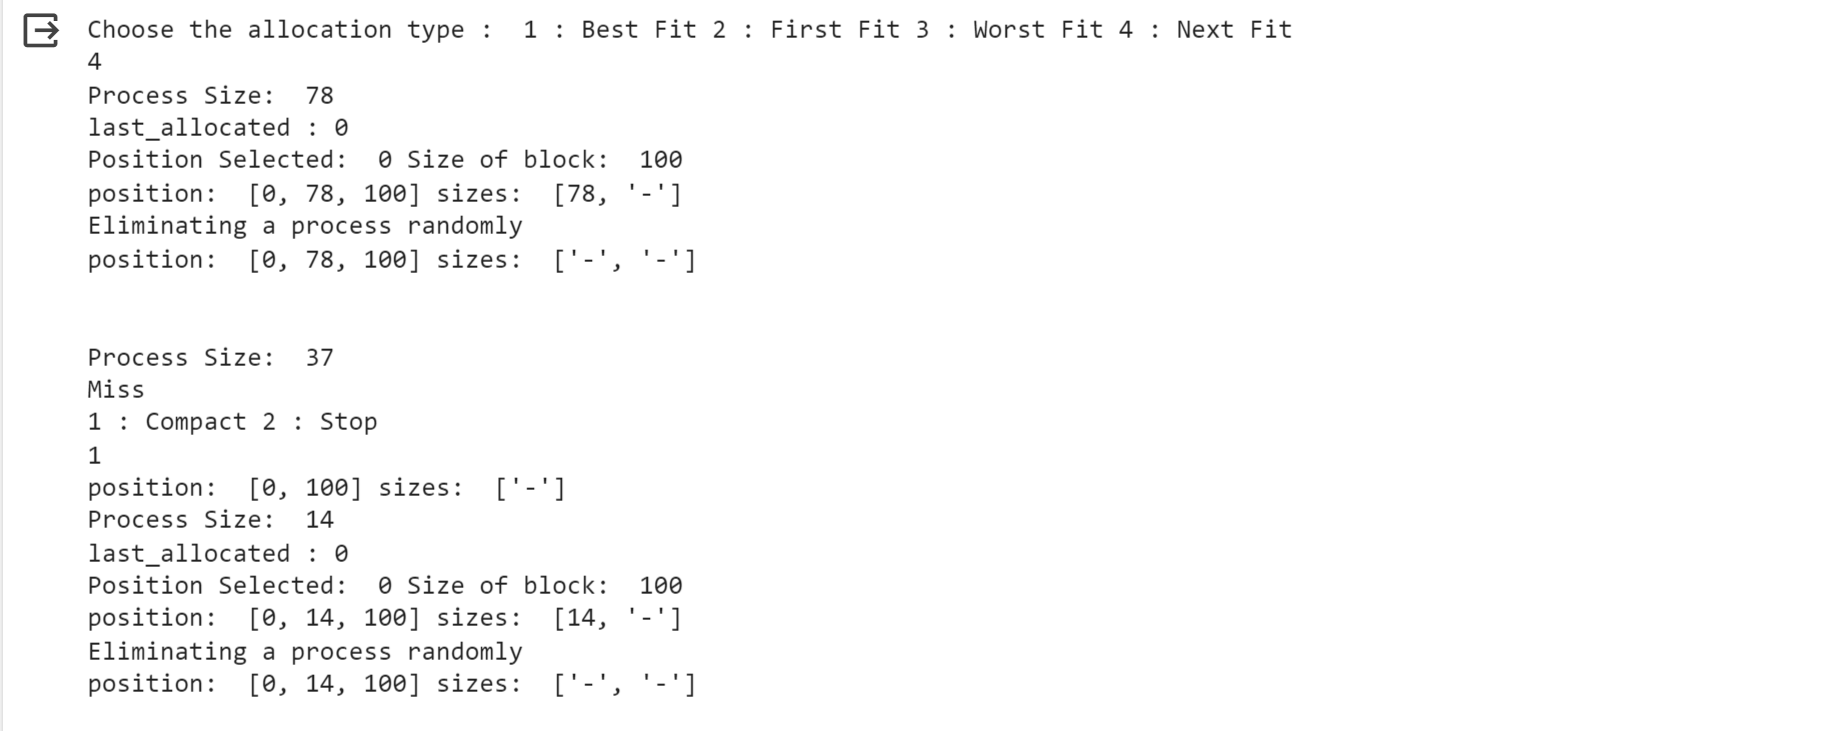
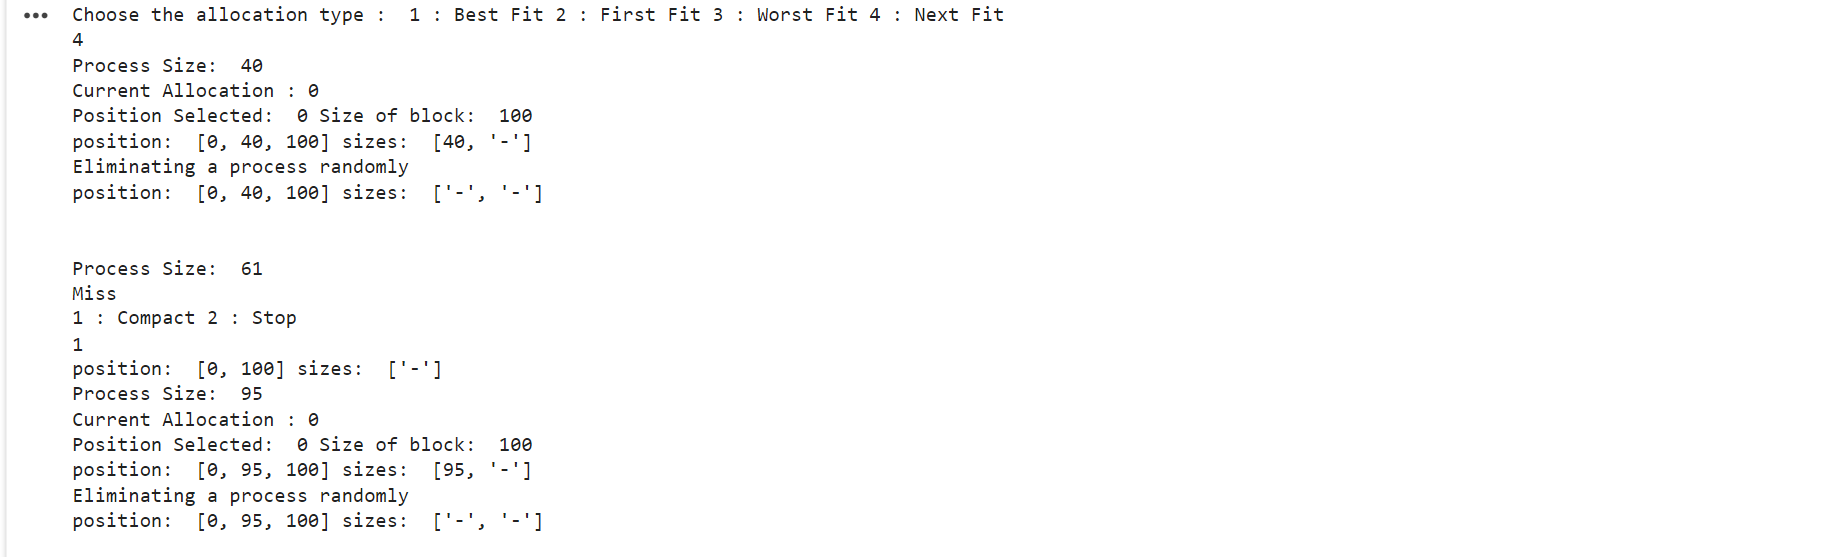
Commit message

diff --git a/allocator.py b/allocator.py
@@ -29,7 +29,7 @@ def next_fit(process):
         if sizes[i]=='-' and (positions[i+1]-positions[i])>=process:
             last_allocated=i
             last_allocated=last_allocated % len(positions)
-            print('last_allocated :',last_allocated)
+            print('Current Allocation :',last_allocated)
             return i,positions[i]       
     return -1,-1
 
@@ -147,6 +147,7 @@ while True:
           continue
         else:
           break
+          print('\n')
 
       insert(process,i,position)
       print('position: ',positions,'sizes: ',sizes)
@@ -154,86 +155,3 @@ while True:
       print('Eliminating a process randomly')
       print('position: ',positions,'sizes: ',sizes)
       print('\n')
-
-
-
-
-
-
-
-
-
-
-
-
-
-
-
-
-
-
-
-
-
-
-
-
-
-
-
-
-
-
-
-
-
-
-# i,position=worst_fit(11)
-# print(i,position)
-# insert(11,i,position)
-# print(positions,sizes)
-
-    # #perfroming compaction
-    # compact=[]
-    # new_positions=[]
-    # while i in range(len(positions)):
-    #     if sizes[i]=='-':
-    #         start=positions[i]
-    #         while sizes[i]!='-':
-    #             i=i+1
-    #         end=positions[i-1]
-    #         compact.append('-')
-    #         new_positions.append(start)
-    #         new_positions.append(end)
-    #     else:
-    #         compact.append(sizes[i])
-    #         new_positions.append(positions[i])
-
-
-
-# for i,position in enumerate(positions):
-#     print(i)
-
-
-
-
-
-# process = random.randint(1,100)
-# def insert(process,positions,sizes):
-#     print(process)
-#     for i,position in enumerate(positions):
-#         if i== len(positions)-1:
-#             break
-#         if sizes[i]=='-' and (positions[i+1]-positions[i])==process:
-#             sizes[i]=process
-#             break
-#         elif sizes[i]=='-' and (positions[i+1]-positions[i])>process:
-#             sizes[i]=process
-#             pos=position+process
-#             positions.insert(i+1,pos)
-#             space= positions[i+2]-positions[i+1]
-#             sizes.insert(i+1,space)
-#             break
-
-# insert(11,positions,sizes)
-# print(positions,sizes)
